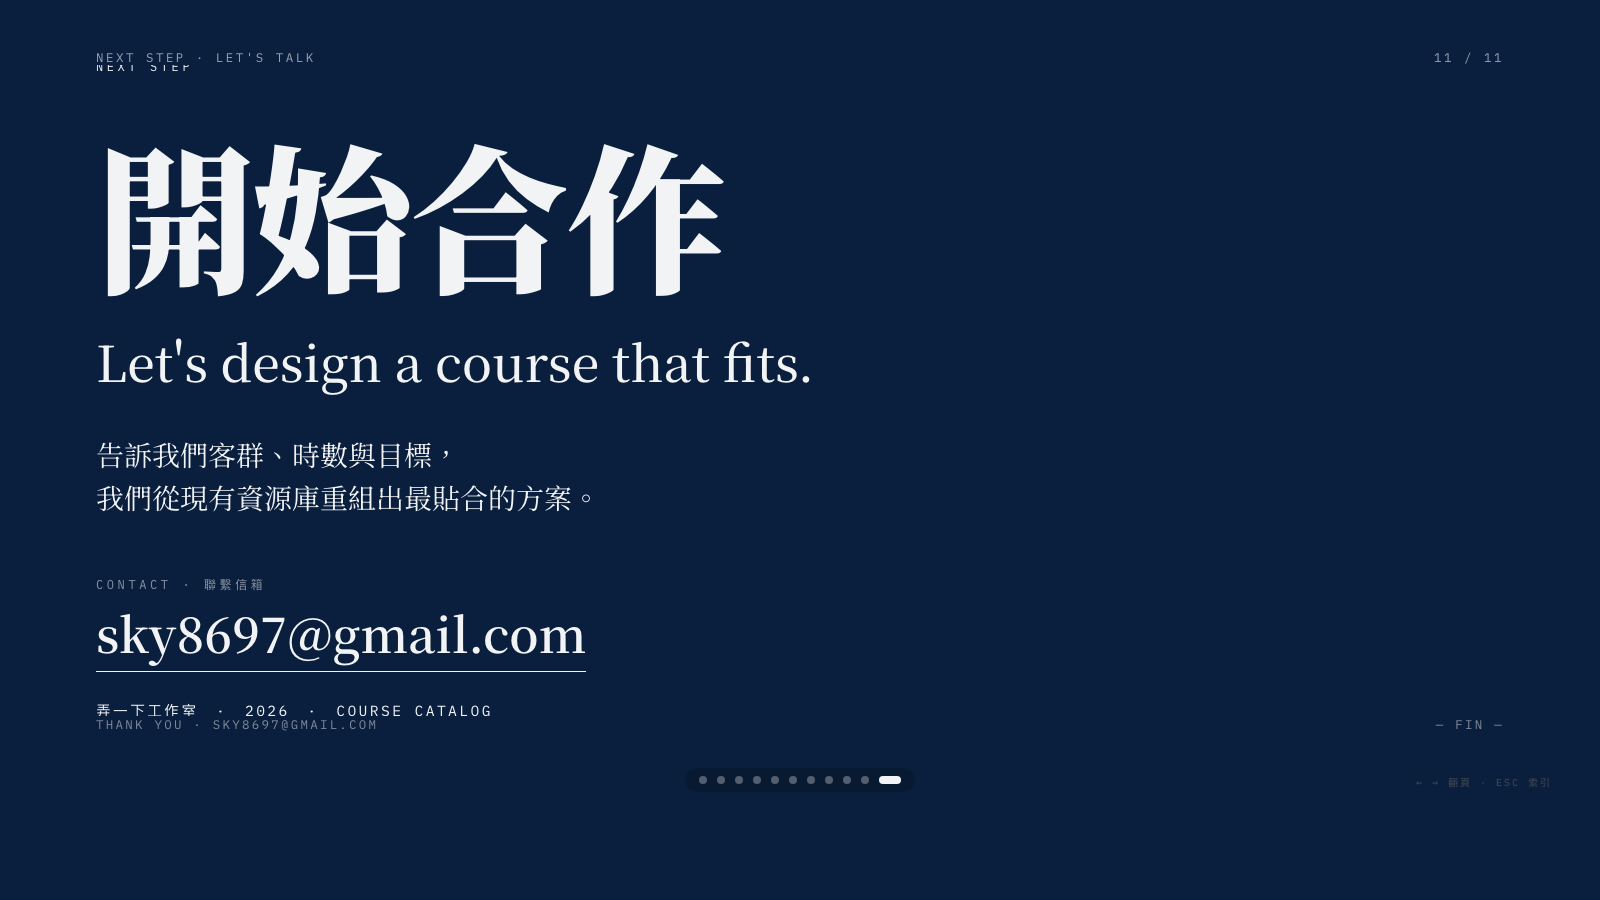
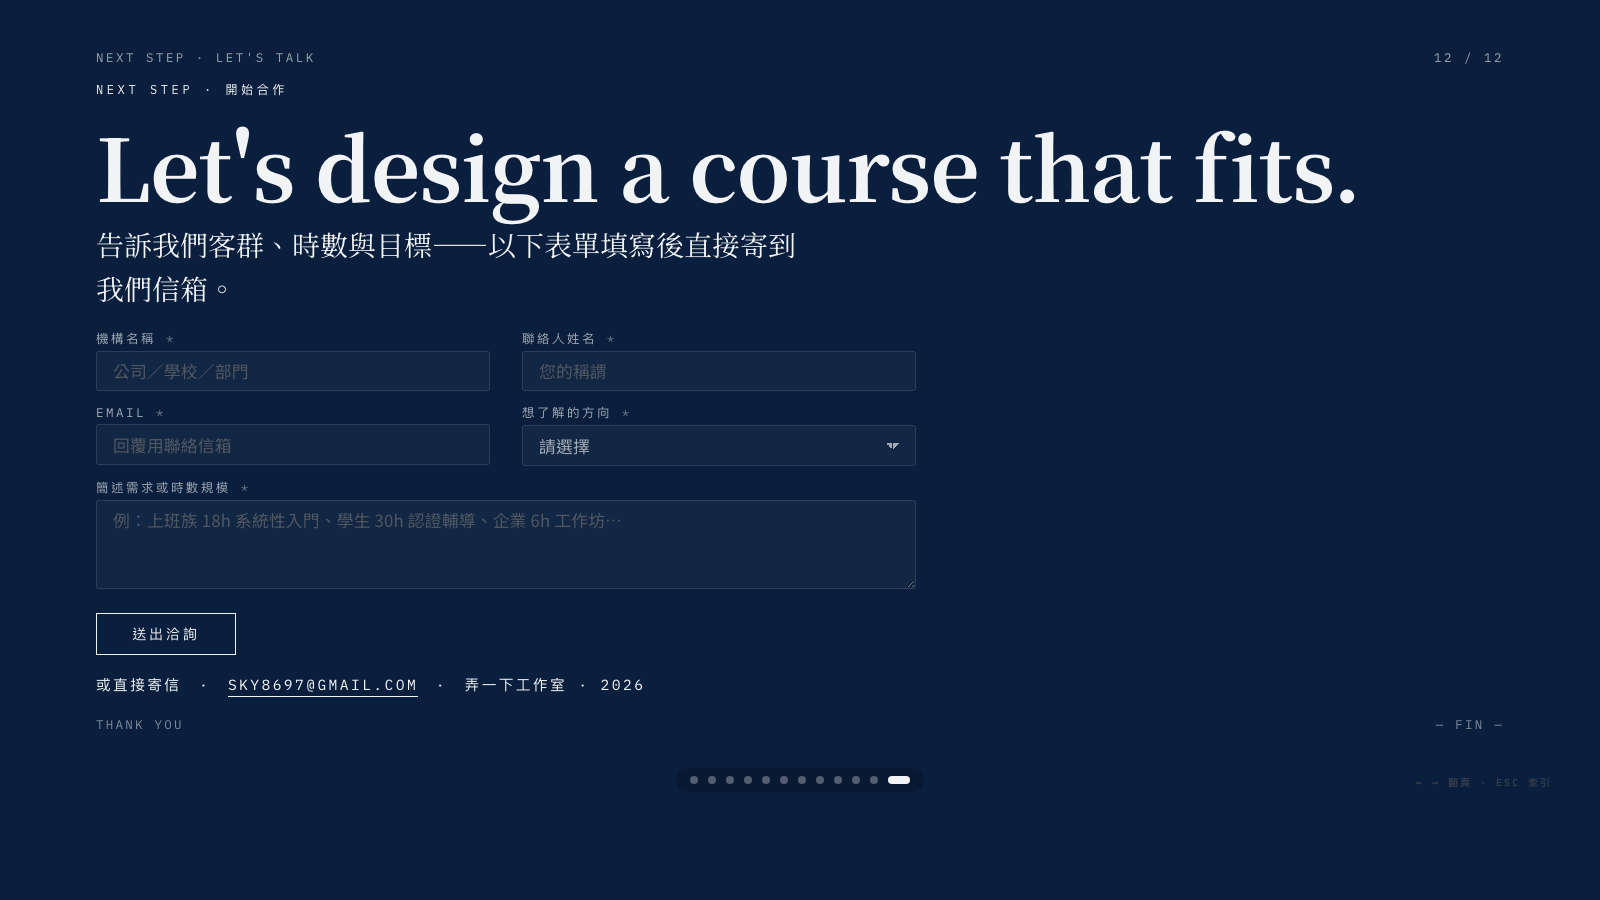
feat(deck): CTA 頁加入聯繫表單（Formspree 後端）
主訴：機構能直接從最後一頁填表單聯繫，不用切換到 email。

實作：
- Page 12 從 hero dark 改 dark（騰出版面）
- 大標題從 h-hero 改 h-xl，副標下方接表單
- 5 欄位 form（grid-2 + 1 full-row textarea）：
  · 機構名稱（必填）
  · 聯絡人姓名（必填）
  · Email（必填，type=email）
  · 想了解的方向（select：6 主題 + 未確定）
  · 簡述需求或時數規模（textarea）
- 隱藏 honeypot 欄位 _gotcha 防垃圾
- 隱藏 _subject 欄位讓收信標題固定
- form action: https://formspree.io/f/mdabwvga
- JS：fetch POST 攔截、頁面內顯示送出狀態（送出中／✓ 已送出／⚠ 失敗）
- meta-row 保留 mailto fallback

CSS：
- .contact-form / 欄位樣式（衬線標籤 + 大字輸入）
- 主題感知：dark/light slide 都有對應 input 配色
- select 自定箭頭、option 配色跟主題

驗證：
- 桌機 1600x900：表單完整顯示，無溢出
- 手機 375x812：欄位 2x2 grid，textarea 全寬，可內捲

diff --git a/index.html b/index.html
@@ -129,6 +129,28 @@
     .level-courses{margin-top:.4vh}
   }
 
+  /* contact-form：CTA 頁聯繫表單 */
+  .contact-form{display:grid;grid-template-columns:1fr 1fr;gap:1.6vh 2vw;max-width:min(820px,94vw)}
+  .contact-form .full{grid-column:1/-1}
+  .contact-form label{display:flex;flex-direction:column;gap:.5vh;font-family:var(--mono);font-size:max(10px,.78vw);letter-spacing:.2em;text-transform:uppercase;opacity:.65}
+  .contact-form .req::after{content:' *';opacity:.6}
+  .contact-form input,.contact-form select,.contact-form textarea{font-family:var(--sans-zh);font-size:max(14px,1.05vw);padding:.9vh 1vw;background:rgba(var(--paper-rgb),.06);border:1px solid rgba(var(--paper-rgb),.18);color:inherit;border-radius:3px;outline:none;transition:border-color .2s,background .2s;letter-spacing:.01em}
+  .contact-form input:focus,.contact-form select:focus,.contact-form textarea:focus{border-color:rgba(var(--paper-rgb),.55);background:rgba(var(--paper-rgb),.1)}
+  .contact-form textarea{resize:vertical;min-height:9vh;font-family:var(--sans-zh)}
+  .contact-form select{appearance:none;-webkit-appearance:none;background-image:linear-gradient(45deg,transparent 50%,currentColor 50%),linear-gradient(135deg,currentColor 50%,transparent 50%);background-position:calc(100% - 1.4vw) 50%,calc(100% - 1vw) 50%;background-size:.4vw .4vw;background-repeat:no-repeat;padding-right:2.6vw}
+  .contact-form select option{background:var(--ink);color:var(--paper)}
+  .slide.light .contact-form input,.slide.light .contact-form select,.slide.light .contact-form textarea{background:rgba(var(--ink-rgb),.04);border-color:rgba(var(--ink-rgb),.18)}
+  .slide.light .contact-form select option{background:var(--paper);color:var(--ink)}
+  .contact-form .hp{position:absolute;left:-9999px;width:1px;height:1px;opacity:0}
+  .contact-form-actions{display:flex;align-items:center;gap:1.6vw;margin-top:1.4vh;flex-wrap:wrap}
+  .contact-form button{font-family:var(--mono);font-size:max(11px,.88vw);letter-spacing:.2em;text-transform:uppercase;padding:1.2vh 2.2vw;background:transparent;border:1px solid currentColor;color:inherit;cursor:pointer;transition:background .2s,color .2s}
+  .contact-form button:hover{background:currentColor;color:var(--ink)}
+  .slide.light .contact-form button:hover{color:var(--paper)}
+  .contact-form button:disabled{opacity:.5;cursor:wait;background:transparent !important;color:inherit !important}
+  .form-status{font-family:var(--mono);font-size:max(11px,.85vw);letter-spacing:.18em;text-transform:uppercase;opacity:0;transition:opacity .3s;line-height:1.5}
+  .form-status.show{opacity:.85}
+  .form-status.error{color:#ff8a80}
+
   /* feature-card：單課程詳述頁用（Page 應用設計、圖像、自動化）*/
   .feature-card{padding:3.2vh 2.2vw;border:1px solid currentColor;border-color:rgba(127,127,127,.35);border-radius:6px;display:flex;flex-direction:column;gap:1.6vh}
   .slide.dark .feature-card{background:rgba(var(--paper-rgb),.04)}
@@ -629,32 +651,65 @@
   </div>
 </section>
 
-<!-- =============== Page 12 · CTA =============== -->
-<section class="slide hero dark">
+<!-- =============== Page 12 · CTA + 表單 =============== -->
+<section class="slide dark">
   <div class="chrome">
     <div>Next Step · Let's Talk</div>
     <div>12 / 12</div>
   </div>
-  <div class="frame" style="display:grid; gap:5vh; align-content:center; min-height:80vh">
-    <div class="kicker" data-anim>Next Step</div>
-    <h1 class="h-hero" data-anim>開始合作</h1>
-    <h2 class="h-sub" data-anim>Let's design a course that fits.</h2>
-    <p class="lead" style="max-width:min(720px,92vw)" data-anim>
-      告訴我們客群、時數與目標，<br>
-      我們從現有資源庫重組出最貼合的方案。
+  <div class="frame" style="padding-top:2vh">
+    <div class="kicker" data-anim>Next Step · 開始合作</div>
+    <h2 class="h-xl" style="font-size:clamp(32px,5.4vw,86px)" data-anim>Let's design a course that fits.</h2>
+    <p class="lead" style="margin-top:1.4vh; margin-bottom:2.4vh; max-width:min(720px,92vw)" data-anim>
+      告訴我們客群、時數與目標——以下表單填寫後直接寄到我們信箱。
     </p>
-    <div data-anim style="margin-top:2vh">
-      <div class="kicker" style="margin-bottom:1.4vh; opacity:.55">Contact · 聯繫信箱</div>
-      <a href="mailto:sky8697@gmail.com?subject=課程合作洽談" style="font-family:var(--serif-zh); font-weight:600; font-size:clamp(20px,3vw,48px); line-height:1.15; color:inherit; text-decoration:none; border-bottom:1px solid currentColor; padding-bottom:.1em; word-break:break-all">
-        sky8697@gmail.com
-      </a>
-    </div>
-    <div class="meta-row" data-anim>
-      <span>弄一下工作室</span><span>·</span><span>2026</span><span>·</span><span>Course Catalog</span>
+
+    <form id="contact-form" class="contact-form" action="https://formspree.io/f/mdabwvga" method="POST" data-anim>
+      <label>
+        <span class="req">機構名稱</span>
+        <input type="text" name="organization" required placeholder="公司／學校／部門">
+      </label>
+      <label>
+        <span class="req">聯絡人姓名</span>
+        <input type="text" name="name" required placeholder="您的稱謂">
+      </label>
+      <label>
+        <span class="req">Email</span>
+        <input type="email" name="email" required placeholder="回覆用聯絡信箱">
+      </label>
+      <label>
+        <span class="req">想了解的方向</span>
+        <select name="direction" required>
+          <option value="">請選擇</option>
+          <option value="GenAI 通用">生成式 AI · 通用</option>
+          <option value="GenAI 應用程式設計">生成式 AI · 應用程式設計</option>
+          <option value="GenAI 商業圖像">生成式 AI · 商業圖像生成</option>
+          <option value="AI 認證">AI 認證輔導</option>
+          <option value="數位行銷">數位行銷 × 網站數據</option>
+          <option value="自動化">自動化工作流</option>
+          <option value="未確定 / 其他">尚未確定 / 其他</option>
+        </select>
+      </label>
+      <label class="full">
+        <span class="req">簡述需求或時數規模</span>
+        <textarea name="message" required rows="3" placeholder="例：上班族 18h 系統性入門、學生 30h 認證輔導、企業 6h 工作坊⋯"></textarea>
+      </label>
+      <input type="text" name="_gotcha" class="hp" tabindex="-1" autocomplete="off">
+      <input type="hidden" name="_subject" value="[Course Catalog] 機構合作洽詢">
+      <div class="contact-form-actions full">
+        <button type="submit">送出洽詢</button>
+        <div class="form-status" id="form-status"></div>
+      </div>
+    </form>
+
+    <div class="meta-row" data-anim style="margin-top:2.4vh">
+      <span>或直接寄信</span><span>·</span>
+      <a href="mailto:sky8697@gmail.com?subject=課程合作洽談" style="color:inherit;text-decoration:none;border-bottom:1px solid currentColor;padding-bottom:.1em">sky8697@gmail.com</a>
+      <span>·</span><span>弄一下工作室 · 2026</span>
     </div>
   </div>
   <div class="foot">
-    <div>Thank you · sky8697@gmail.com</div>
+    <div>Thank you</div>
     <div>— Fin —</div>
   </div>
 </section>
@@ -881,6 +936,44 @@ addEventListener('hashchange',()=>{const n=parseInt(location.hash.replace('#',''
 </script>
 <script src="https://unpkg.com/lucide@latest/dist/umd/lucide.min.js"></script>
 <script>lucide.createIcons();</script>
+
+<script>
+// 聯繫表單：fetch 提交到 Formspree，頁面內顯示送出狀態
+(()=>{
+  const form = document.getElementById('contact-form');
+  if(!form) return;
+  const status = document.getElementById('form-status');
+  const btn = form.querySelector('button[type="submit"]');
+  form.addEventListener('submit', async e => {
+    e.preventDefault();
+    btn.disabled = true;
+    status.textContent = '送出中⋯';
+    status.className = 'form-status show';
+    try {
+      const r = await fetch(form.action, {
+        method: 'POST',
+        body: new FormData(form),
+        headers: { 'Accept': 'application/json' }
+      });
+      if (r.ok) {
+        status.textContent = '✓ 已送出，我們會儘快回覆';
+        status.className = 'form-status show';
+        form.reset();
+      } else {
+        const d = await r.json().catch(()=>({}));
+        const msg = (d.errors||[]).map(x=>x.message).join('、') || '送出失敗，請改寄 sky8697@gmail.com';
+        status.textContent = '⚠ ' + msg;
+        status.className = 'form-status show error';
+      }
+    } catch(_) {
+      status.textContent = '⚠ 網路錯誤，請改寄 sky8697@gmail.com';
+      status.className = 'form-status show error';
+    } finally {
+      btn.disabled = false;
+    }
+  });
+})();
+</script>
 
 <script type="module">
 const _staticMode = /[?&]static\b/.test(location.search);
